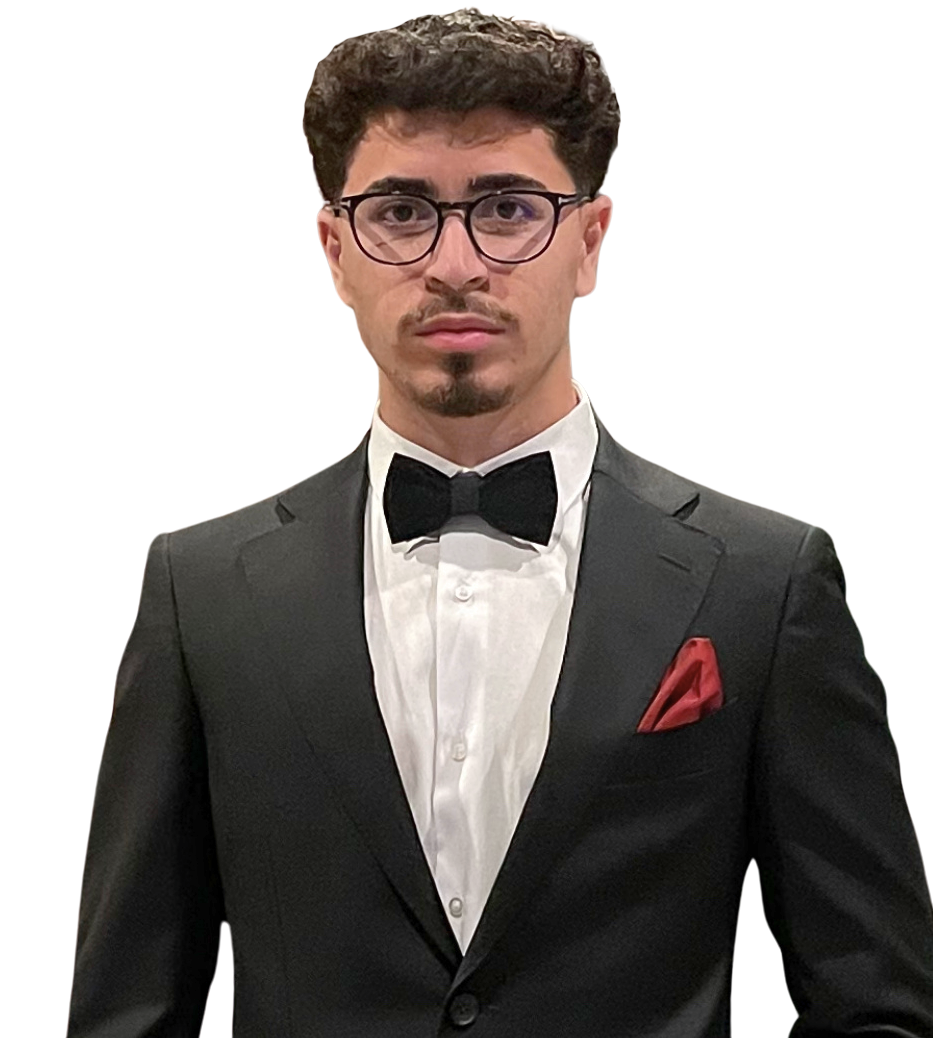
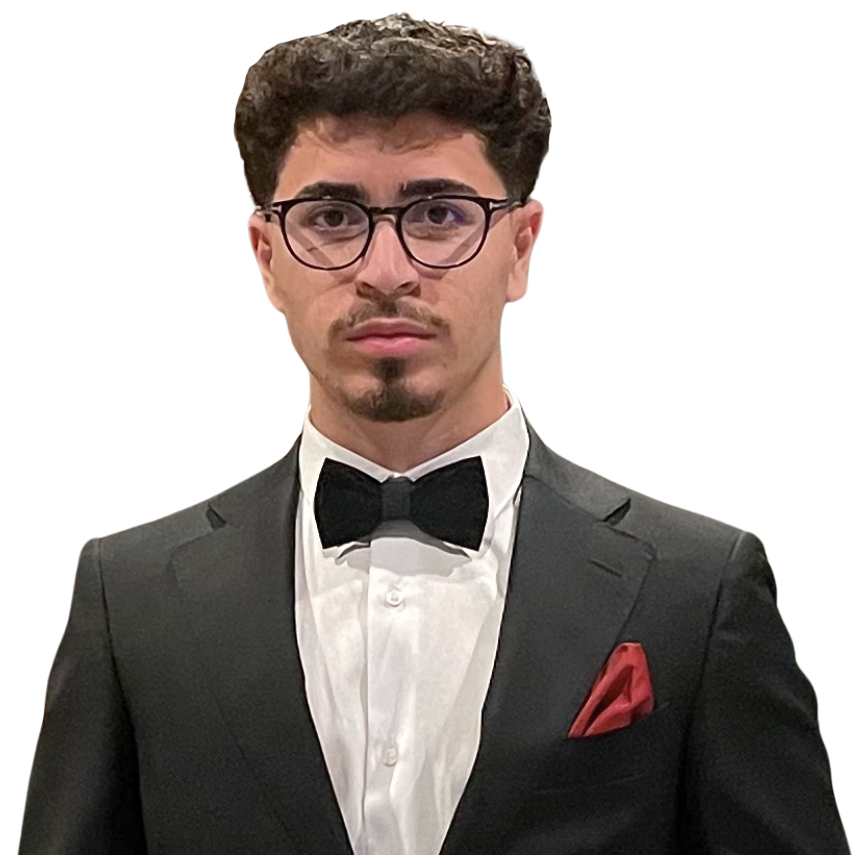
Added the founder's part and the other text changes

diff --git a/index.html b/index.html
@@ -188,22 +188,20 @@
     </section>
     <section id="about" class="py-5 relative z-20">
       <div
-        class="w-11/12 2xl:w-[1400px] mx-auto bg-lighter-blue shadow-custom-stuff px-4 py-8 md:p-10 rounded-xl flex justify-between items-center">
+        class="w-11/12 2xl:w-[1400px] mx-auto bg-lighter-blue shadow-custom-stuff px-4 py-8 md:p-10 rounded-xl flex flex-col-reverse md:flex-row justify-between items-center">
         <div class="space-y-3 md:space-y-5 md:w-[65%]">
-          <h2 class="text-sm text-blue font-medium w-fit">Our Mission</h2>
-          <div class="w-9/12 sm:w-1/2 mx-auto md:hidden">
-            <img src="./src/images/umagine_founder.png" class="aspect-square object-cover object-top" alt="" />
-          </div>
+          <h2 class="text-sm text-blue font-medium w-fit">
+            Our Mission
+          </h2>
           <p class="text-2xl sm:text-4xl lg:text-5xl lg:max-w-[650px]">
-            Your Company's Success Is Our Delight
+            Your Success is Our Main Priority
           </p>
           <p class="text-sm font-light text-grey-4 max-w-[650px] pb-5">
-            We know it is hard to start a new business, that is why we are here
-            to take some pressure off of you. We’ll turn your unique ideas into
-            reality. We stand out as a team of young creatives with a deep
-            understanding of the new generation's needs and trends.
-            Whether&nbsp; you're a local business or a small enterprise,
-            Umagine is your path to success.
+            Starting a business can be tough, but we're here to help ease the
+            journey. We transform your ideas into reality with our team of
+            professional creatives who know exactly what the new generation
+            wants. For both local and small businesses, Umagine is your ticket
+            to success.
           </p>
           <p>
             <a
@@ -213,31 +211,36 @@
             </a>
           </p>
         </div>
-        <div class="hidden md:block md:w-[35%]">
+        <div class="w-full sm:w-1/2 mx-auto md:mx-0 md:w-[35%]">
           <img src="./src/images/umagine_founder.png" class="" alt="" />
+          <div class="pt-4 text-center">
+            <p class="md:font-medium text-slate-800 sm:text-lg md:text-xl">
+              Zaryab Siwaily
+            </p>
+            <p class="text-xs md:text-sm font-light text-slate-600 italic">
+              Founder of Umagine
+            </p>
+          </div>
         </div>
       </div>
     </section>
     <section id="services" class="py-5 md:py-14 relative z-20">
       <div
         class="w-11/12 2xl:w-[1400px] mx-auto rounded-xl space-y-10 md:space-y-16">
-        <div class="text-center md:w-8/12 mx-auto space-y-2 md:space-y-4">
+        <div class="text-center mx-auto space-y-2 md:space-y-4">
           <h2
             class="bg-lighter-blue text-sm text-blue font-medium p-2 rounded-lg w-fit mx-auto">
             Our Services
           </h2>
           <p class="text-2xl sm:text-4xl lg:text-5xl text-center">
-            Excellence From Concept
-            <br />
-            To Completion
+            Excellence from Start to Finish
           </p>
-          <p class="text-sm font-light text-grey-4">
-            We uphold a commitment to excellence, starting from the inception of
-            an idea to the successful completion of each project.
+          <p class="text-sm font-light text-grey-4 max-w-[500px] text-center mx-auto">
+            We commit to excellence, from idea to project success.
           </p>
         </div>
         <div
-          class="grid grid-cols-1 sm:grid-cols-2 lg:grid-cols-3 gap-6 md:gap-x-20 md:gap-y-10">
+          class="w-full mx-auto grid grid-cols-1 sm:grid-cols-2 lg:grid-cols-3 gap-6 md:gap-x-10 md:gap-y-10">
           <div class="space-y-4">
             <div
               class="w-9 h-9 rounded-lg bg-blue p-1 flex justify-center items-center">
